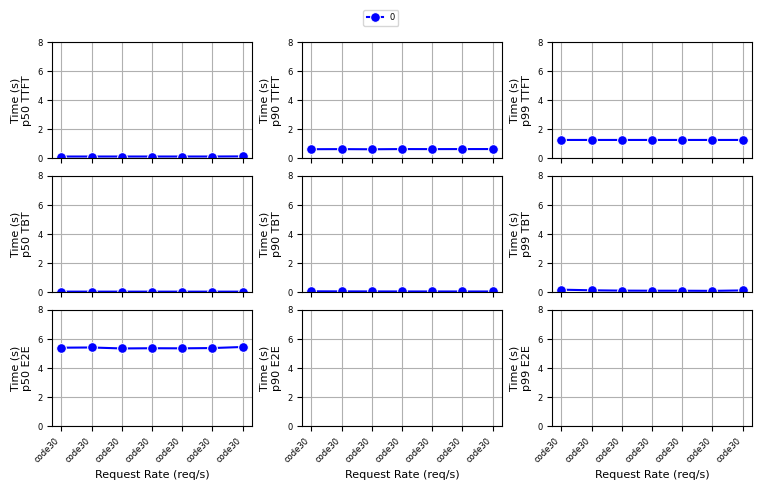
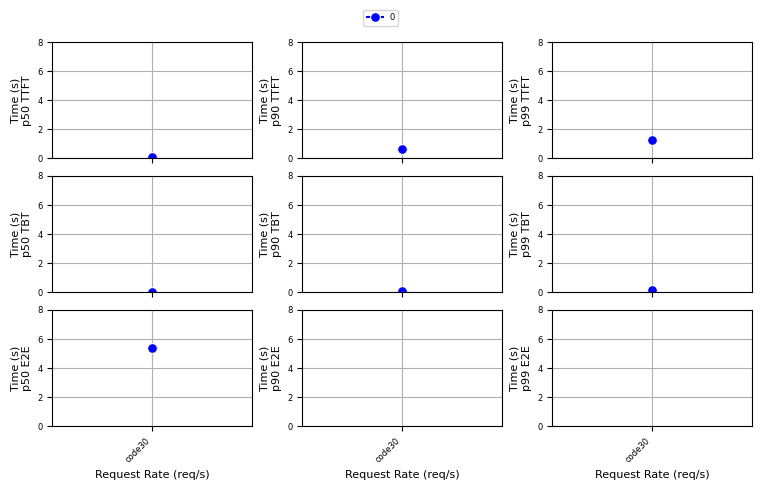
'1'

diff --git a/notebooks/plots_mix.py b/notebooks/plots_mix.py
@@ -4,7 +4,7 @@ import seaborn as sns
 import matplotlib.pyplot as plt
 import matplotlib.colors as mcolors
 import numpy as np
-from utils import get_summary_data, get_request_data
+from notebooks.utils import  get_summary_data, get_request_data
 from perf_model import PerfModel
 
 # 设置全局字体大小，比默认字体小2号
@@ -23,6 +23,7 @@ plots_dir = "../plots/mixed_trace/"
 perf_model_path = "../data/perf_model.csv"
 os.makedirs(plots_dir, exist_ok=True)
 req_types = [0,1]
+
 
 def get_data(configs, traces, seed, quantiles=[0.5, 0.9, 0.99], model=""):
     """
@@ -64,7 +65,7 @@ def get_data(configs, traces, seed, quantiles=[0.5, 0.9, 0.99], model=""):
                 result[key] = value
             result["trace"] = trace
             result["seed"] = seed
-            
+
             # 如果存在request_types列，则分别计算code和conv类型的指标
             if 'request_types' in request_df.columns:
                 for req_type in req_types:
@@ -74,7 +75,7 @@ def get_data(configs, traces, seed, quantiles=[0.5, 0.9, 0.99], model=""):
                             result[f"{req_type}_ttft_slowdown_p{int(quantile * 100)}"] = type_filtered_df["ttft_slowdown"].quantile(quantile)
                             result[f"{req_type}_tbt_slowdown_p{int(quantile * 100)}"] = type_filtered_df["tbt_slowdown"].quantile(quantile)
                             result[f"{req_type}_e2e_slowdown_p{int(quantile * 100)}"] = type_filtered_df["e2e_slowdown"].quantile(quantile)
-                            
+
                         # 对于时间指标，我们使用原始值而不是slowdown
                         for quantile in quantiles:
                             result[f"{req_type}_ttft_times_p{int(quantile * 100)}"] = type_filtered_df["ttft_times"].quantile(quantile)
@@ -230,7 +231,7 @@ def plot_y_vs_trace_by_request_type(results_df,
     request_types = req_types
     colors = ['blue', 'orange']
     markers = ['o', 's']
-    
+
     for i, req_type in enumerate(request_types):
         for y_var in y_vars:
             for quantile in quantiles:
@@ -355,7 +356,7 @@ def plot_additional_metrics_by_request_type(results_df,
     request_types = req_types
     colors = ['blue', 'orange']
     markers = ['o', 's']
-    
+
     for i, req_type in enumerate(request_types):
         for y_var in y_vars:
             for quantile in quantiles:
@@ -416,7 +417,7 @@ def main():
     }
 
     configs = [mixed_pool_config]
-    traces = [f"mixed_qps{i}_code30" for i in range(30, 100, 10)]  # Example range
+    traces = [f"mixed_qps_{i}_code30" for i in range(30, 31, 10)]  # Example range
 
     # Get data
     results_df, request_dfs = get_data(configs, traces, seed=0, model="bloom-176b")
@@ -441,7 +442,7 @@ def main():
         title=None,
         save_path=plots_dir + name
     )
-    
+
     # Generate plots separated by request type
     plot_y_vs_trace_by_request_type(
         results_df,
@@ -451,7 +452,7 @@ def main():
         title=None,
         save_path=plots_dir + name
     )
-    
+
     plot_additional_metrics_by_request_type(
         results_df,
         traces,

diff --git a/scheduler.py b/scheduler.py
@@ -681,6 +681,7 @@ class MixedPoolScheduler(KVScheduler):
         if (len(self.prompt_instances) == 0 or len(self.token_instances) == 0) \
             and len(self.mixed_instances) == 0:
             raise ValueError("No instances available")
+        print("MixedPoolScheduler", clock(), request.workload_type)
 
         prompt_task = request.root_node
         token_task = next(request.successors(prompt_task))

diff --git a/notebooks/generate_mix_trace.py b/notebooks/generate_mix_trace.py
@@ -184,7 +184,7 @@ if __name__ == "__main__":
 
     # 场景 2: 固定 Code 比例 30% (典型 Copilot 场景)，扫描 QPS 压力
     # 用于测试 Throughput 和 Latency 曲线
-    rates_to_test = list(range(30, 150, 10))
+    rates_to_test = list(range(30, 151, 10))
     fixed_ratio = [0.3]
 
     generate_mixed_traces_batch(
